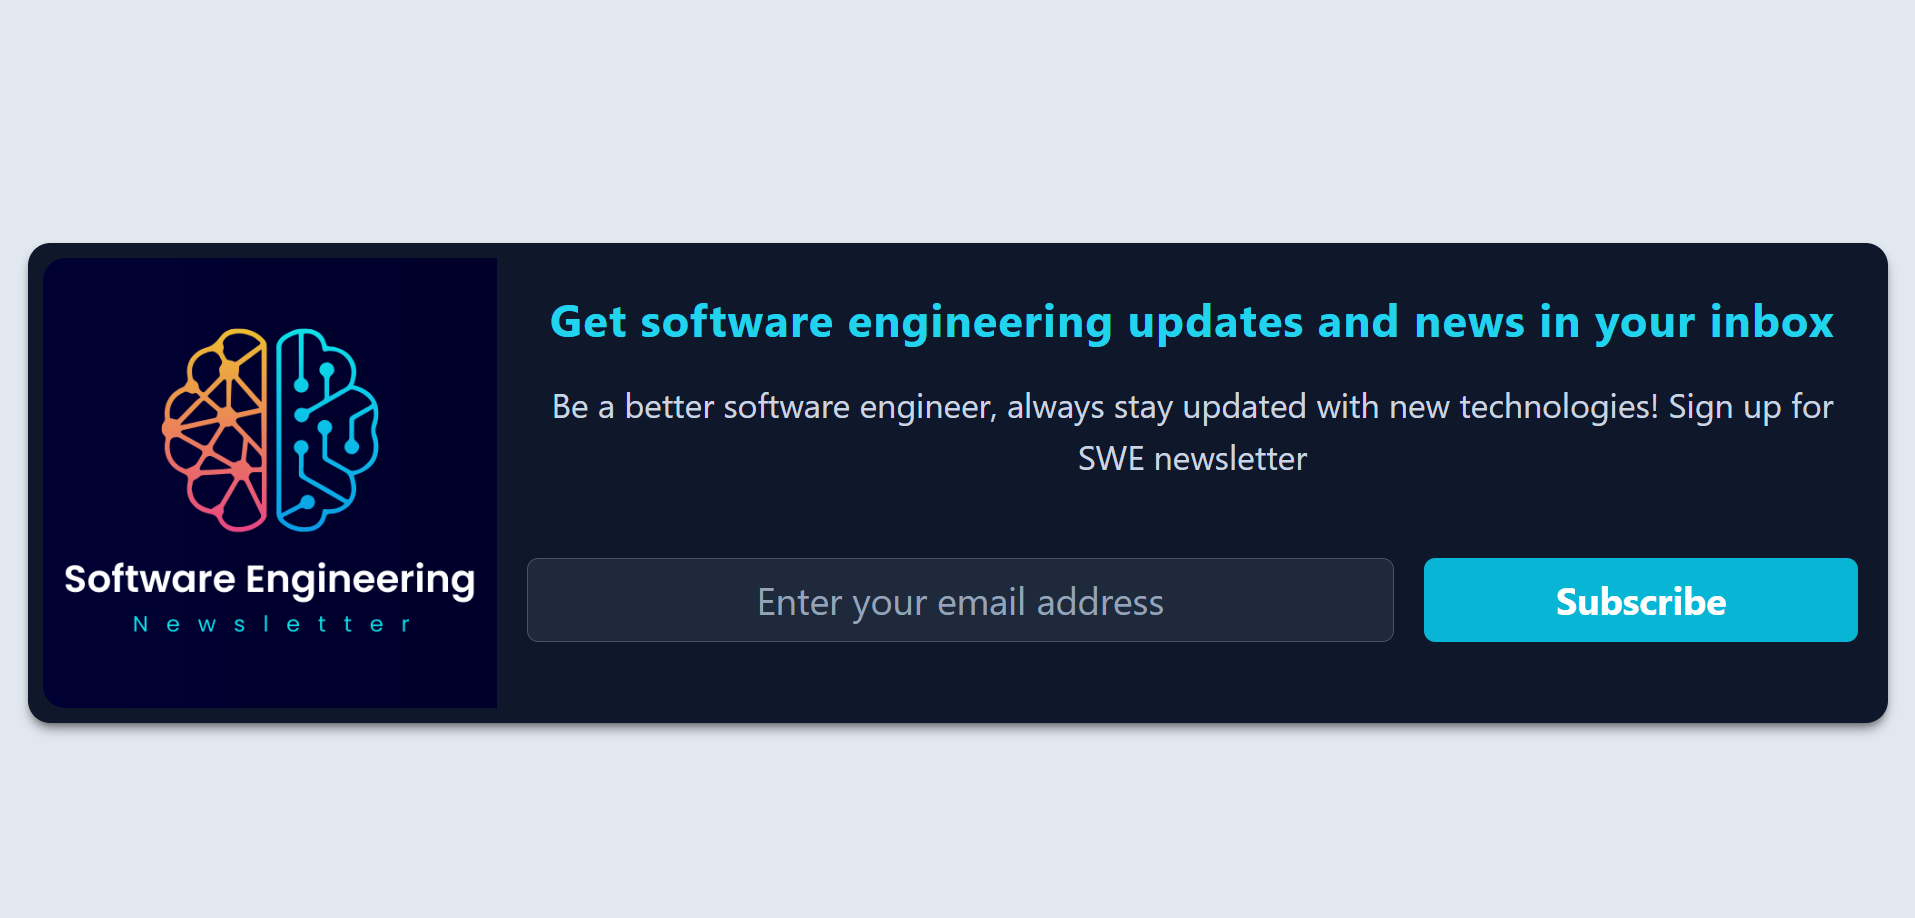
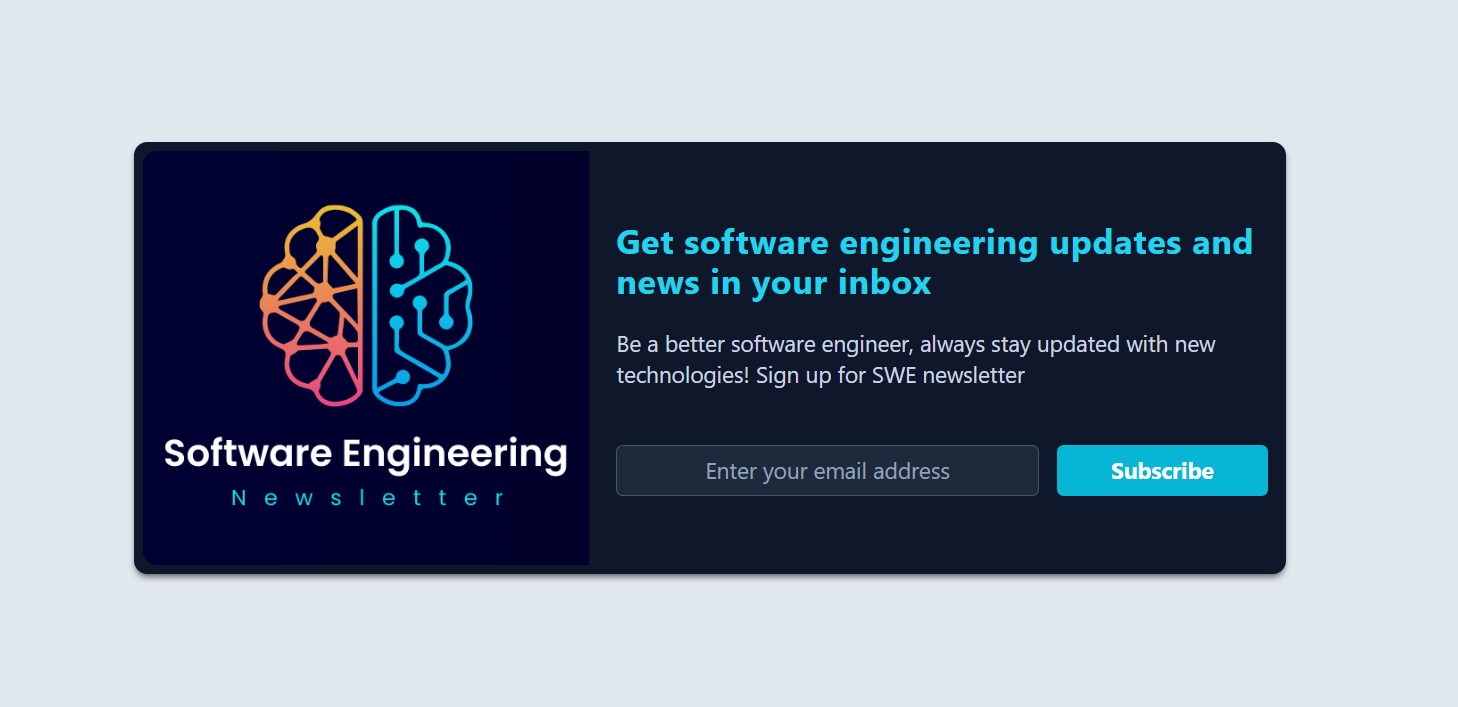
Enhance email-subscribe-card responsiveness

Changed region(s): [[0.0, 0.1867, 0.9877, 0.8402]]

diff --git a/email-subscribe-card/output.css b/email-subscribe-card/output.css
@@ -647,8 +647,32 @@ video {
   margin-bottom: 2.5rem;
 }
 
+.mb-8 {
+  margin-bottom: 2rem;
+}
+
+.mb-7 {
+  margin-bottom: 1.75rem;
+}
+
+.mb-20 {
+  margin-bottom: 5rem;
+}
+
 .flex {
   display: flex;
+}
+
+.aspect-\[4\/3\] {
+  aspect-ratio: 4/3;
+}
+
+.aspect-\[2\/23\] {
+  aspect-ratio: 2/23;
+}
+
+.aspect-\[1\/1\] {
+  aspect-ratio: 1/1;
 }
 
 .h-64 {
@@ -695,6 +719,14 @@ video {
   height: 36rem;
 }
 
+.h-\[40rem\] {
+  height: 40rem;
+}
+
+.h-\[44rem\] {
+  height: 44rem;
+}
+
 .min-h-screen {
   min-height: 100vh;
 }
@@ -721,6 +753,10 @@ video {
 
 .max-w-80 {
   max-width: 20rem;
+}
+
+.max-w-\[32rem\] {
+  max-width: 32rem;
 }
 
 .flex-1 {
@@ -789,6 +825,14 @@ video {
 
 .gap-2 {
   gap: 0.5rem;
+}
+
+.gap-6 {
+  gap: 1.5rem;
+}
+
+.gap-8 {
+  gap: 2rem;
 }
 
 .self-center {
@@ -899,6 +943,16 @@ video {
      object-position: center;
 }
 
+.object-top {
+  -o-object-position: top;
+     object-position: top;
+}
+
+.object-bottom {
+  -o-object-position: bottom;
+     object-position: bottom;
+}
+
 .p-2 {
   padding: 0.5rem;
 }
@@ -933,6 +987,11 @@ video {
 .text-xs {
   font-size: 0.75rem;
   line-height: 1rem;
+}
+
+.text-xl {
+  font-size: 1.25rem;
+  line-height: 1.75rem;
 }
 
 .font-bold {
@@ -1113,6 +1172,10 @@ video {
     margin-bottom: 2.5rem;
   }
 
+  .md\:mb-12 {
+    margin-bottom: 3rem;
+  }
+
   .md\:h-64 {
     height: 16rem;
   }
@@ -1125,8 +1188,49 @@ video {
     height: 100%;
   }
 
+  .md\:h-80 {
+    height: 20rem;
+  }
+
+  .md\:h-\[80\] {
+    height: 80;
+  }
+
+  .md\:h-\[80rem\] {
+    height: 80rem;
+  }
+
+  .md\:h-\[24rem\] {
+    height: 24rem;
+  }
+
+  .md\:h-\[32rem\] {
+    height: 32rem;
+  }
+
+  .md\:h-96 {
+    height: 24rem;
+  }
+
   .md\:max-w-full {
     max-width: 100%;
+  }
+
+  .md\:max-w-max {
+    max-width: -moz-max-content;
+    max-width: max-content;
+  }
+
+  .md\:max-w-2xl {
+    max-width: 42rem;
+  }
+
+  .md\:max-w-4xl {
+    max-width: 56rem;
+  }
+
+  .md\:max-w-5xl {
+    max-width: 64rem;
   }
 
   .md\:basis-1\/4 {
@@ -1137,8 +1241,24 @@ video {
     flex-basis: 75%;
   }
 
+  .md\:basis-1\/3 {
+    flex-basis: 33.333333%;
+  }
+
+  .md\:basis-2\/3 {
+    flex-basis: 66.666667%;
+  }
+
+  .md\:basis-1\/2 {
+    flex-basis: 50%;
+  }
+
   .md\:flex-row {
     flex-direction: row;
+  }
+
+  .md\:gap-4 {
+    gap: 1rem;
   }
 
   .md\:self-center {
@@ -1159,6 +1279,25 @@ video {
     border-bottom-right-radius: 0px;
   }
 
+  .md\:text-left {
+    text-align: left;
+  }
+
+  .md\:text-xl {
+    font-size: 1.25rem;
+    line-height: 1.75rem;
+  }
+
+  .md\:text-lg {
+    font-size: 1.125rem;
+    line-height: 1.75rem;
+  }
+
+  .md\:text-2xl {
+    font-size: 1.5rem;
+    line-height: 2rem;
+  }
+
   .md\:transition-transform {
     transition-property: transform;
     transition-timing-function: cubic-bezier(0.4, 0, 0.2, 1);
@@ -1167,6 +1306,34 @@ video {
 }
 
 @media (min-width: 1024px) {
+  .lg\:mb-8 {
+    margin-bottom: 2rem;
+  }
+
+  .lg\:mb-7 {
+    margin-bottom: 1.75rem;
+  }
+
+  .lg\:mb-9 {
+    margin-bottom: 2.25rem;
+  }
+
+  .lg\:mb-12 {
+    margin-bottom: 3rem;
+  }
+
+  .lg\:basis-\[60\%\] {
+    flex-basis: 60%;
+  }
+
+  .lg\:basis-\[40\%\] {
+    flex-basis: 40%;
+  }
+
+  .lg\:flex-row {
+    flex-direction: row;
+  }
+
   .lg\:px-2 {
     padding-left: 0.5rem;
     padding-right: 0.5rem;
@@ -1185,6 +1352,11 @@ video {
   .lg\:text-2xl {
     font-size: 1.5rem;
     line-height: 2rem;
+  }
+
+  .lg\:text-3xl {
+    font-size: 1.875rem;
+    line-height: 2.25rem;
   }
 }
 

diff --git a/email-subscribe-card/index.html b/email-subscribe-card/index.html
@@ -9,29 +9,30 @@
     <body>
         <div class="min-h-screen flex p-4 items-center bg-slate-200">
             <article
-                class="max-w-80 md:container h-[36rem] md:h-64 mx-auto p-2 flex flex-col gap-2 md:flex-row text-center bg-slate-900 rounded-xl overflow-hidden shadow-md shadow-black/40"
+                class="max-w-80 md:max-w-5xl h-[40rem] md:h-96 mx-auto p-2 flex flex-col gap-4 md:flex-row text-center md:text-left bg-slate-900 rounded-xl overflow-hidden shadow-md shadow-black/40"
             >
                 <div
-                    class="flex-1 basis-[40%] min-h-0 md:basis-1/4 bg-slate-950 rounded-t-xl md:rounded-l-xl md:rounded-r-none overflow-hidden"
+                    class="flex-1 min-h-0 basis-1/2 md:basis-1/2 lg:basis-[40%] bg-slate-950 rounded-t-xl md:rounded-l-xl md:rounded-r-none overflow-hidden"
                 >
                     <img
                         src="./img/swe-newsletter.png"
                         alt="Software engineering newsletter logo"
-                        class="w-full h-full object-center transition-transform duration-300 hover:scale-105"
+                        class="w-full h-full object-cover object-center transition-transform duration-300 hover:scale-105"
                     />
                 </div>
 
                 <div
-                    class="flex-1 basis-[60%] min-h-0 md:basis-3/4 p-4 lg:px-2"
+                    class="self-center flex-1 min-h-0 basis-1/2 md:basis-1/2 lg:basis-[60%] p-4 lg:px-2"
                 >
                     <h3
-                        class="mb-4 font-bold text-lg text-cyan-400 tracking-wide lg:text-2xl xl:text-3xl"
+                        class="mb-6 font-bold text-md text-cyan-400 tracking-wide md:text-2xl lg:text-3xl"
                     >
-                        Get software engineering updates and news in your inbox
+                        Get software engineering updates and news
+                        in&nbsp;your&nbsp;inbox
                     </h3>
 
                     <p
-                        class="mb-10 md:mb-10 text-sm text-slate-300 leading-relaxed lg:text-lg xl:text-xl"
+                        class="mb-8 md:mb-12 lg:mb-12 text-sm text-slate-300 leading-relaxed md:text-lg lg:text-xl"
                     >
                         Be a better software engineer, always stay updated with
                         new technologies! Sign up for SWE&nbsp;newsletter
@@ -39,7 +40,7 @@
 
                     <form>
                         <div
-                            class="flex flex-col md:flex-row gap-4 text-l lg:text-xl"
+                            class="flex flex-col lg:flex-row gap-4 text-l lg:text-xl"
                         >
                             <input
                                 type="email"
